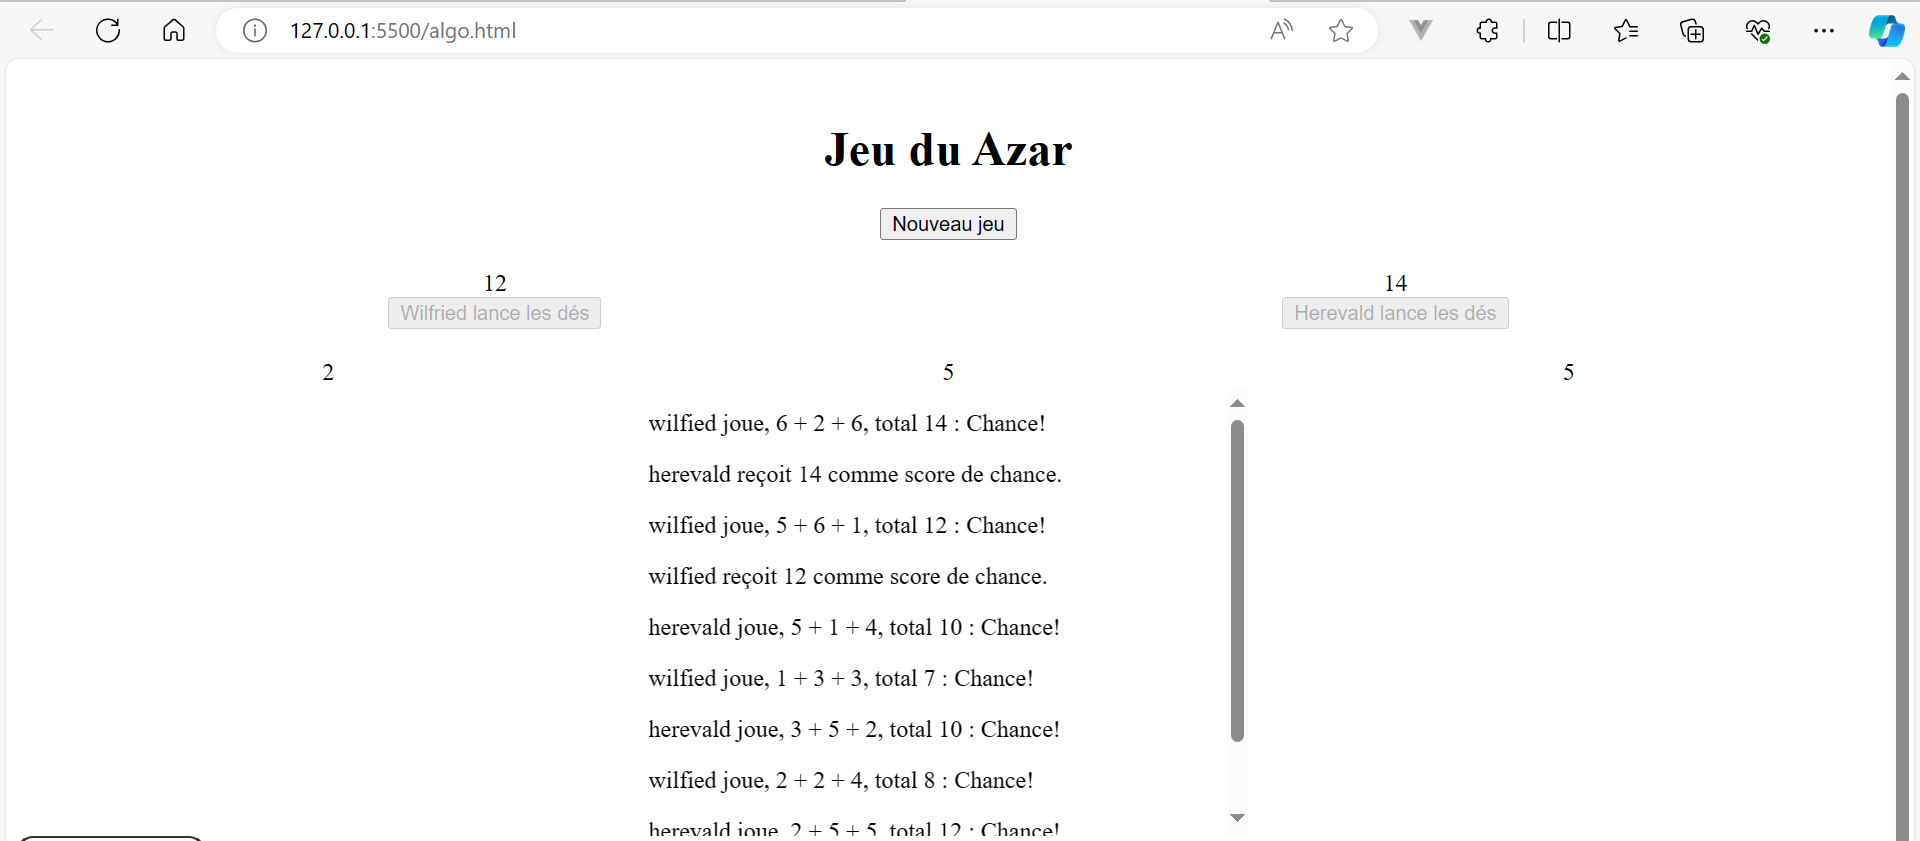
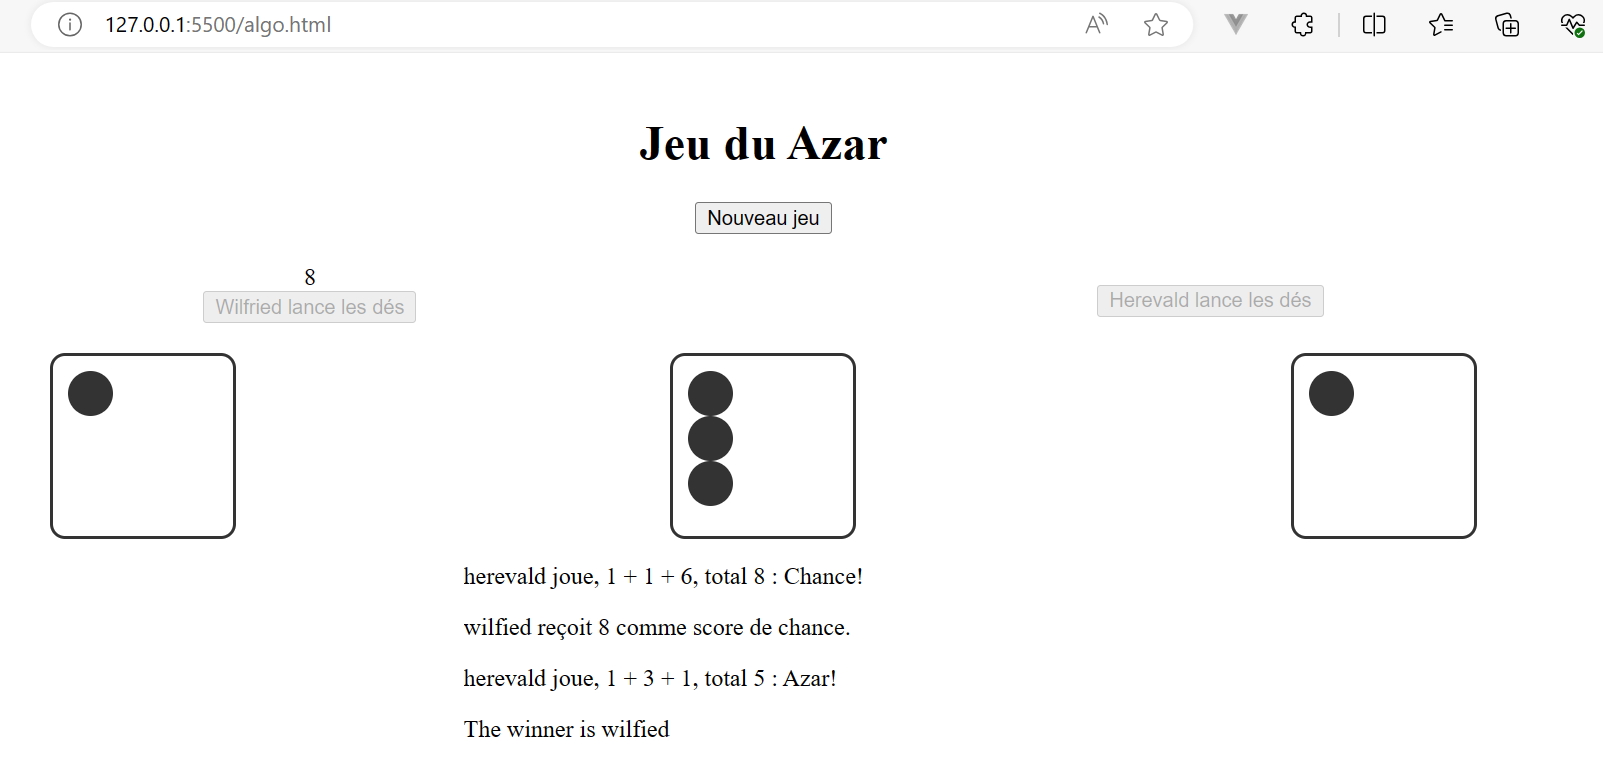
OOP

diff --git a/algo.js b/algo.js
@@ -1,15 +1,37 @@
 var isInitPhase = true;
+var beginnerIndex = 1;
 
 const new_game = document.getElementById("new_game");
 const wilfied = document.getElementById("wilfied");
 const herevald = document.getElementById("herevald");
+const playerButtons = [wilfied, herevald];
 
 const wilfiedSC = document.getElementById("wilfiedSC");
 const herevaldSC = document.getElementById("herevaldSC");
 
-var player1 =  {"name" : "wilfied", scoreChance : 0, playerSC : wilfiedSC};
-var player2 =  {"name" : "herevald", scoreChance : 0, playerSC : herevaldSC};
+function Player(name, score, sc) {
+  this.name = name;
+  this.scoreChance = score;
+  this.playerSC = sc;
+}
+
+Player.prototype.displayPlayerResult = function() {
+  let message = `${this.name} joue, ${launchDiceResult.message}`;
+  let is_azar = isAzar(launchDiceResult);
+  message += is_azar ? " : Azar!" : " : Chance!";
+  addMessageToElem(results, message);
+};
+
+var player1 = new Player("wilfied", 0, wilfiedSC);
+var player2 = new Player("herevald", 0, herevaldSC);
 var players = [player1, player2];
+var beginnerPlayer = players[beginnerIndex];
+var otherPlayer = players[(beginnerIndex+1)%2];
+
+var launchDiceResult = {
+  message : "",
+  sum : 0
+}
 
 const d1 = document.getElementById("d1");
 const d2 = document.getElementById("d2");
@@ -20,74 +42,69 @@ const results = document.getElementById("results");
 new_game.addEventListener("click", ()  => {
   isInitPhase = true;
   results.innerHTML = "";
-  wilfied.disabled = false;
-  herevald.disabled = true;
   
-  player1.scoreChance = 0;
-  player2.scoreChance = 0;
+  playerButtons.forEach(function(player, index) {
+    player.disabled = index != beginnerIndex;
+  });
   
-  setDiceResults("", "", "");
+  beginnerPlayer.scoreChance = 0;
+  otherPlayer.scoreChance = 0;
+  
+  setDiceResults();
   wilfiedSC.innerHTML = "";
   herevaldSC.innerHTML = "";
 });
 
-wilfied.addEventListener("click", ()  => {
-  const launchDiceResult = launchDice();
-  displayPlayerResult(player1, launchDiceResult);
-
-  var isBeginner = true;
-
-  if (isBeginner){
-    isInitPhase ? handleInitPhase(launchDiceResult) : checkWinner(launchDiceResult.sum);
-  } else {
-    checkWinner(launchDiceResult.sum);
-  }
+playerButtons.forEach(function(player, index) {
+  player.addEventListener("click", ()  => { 
+    play(index);
+  });
 });
 
-herevald.addEventListener("click", ()  => {
-  const launchDiceResult = launchDice();
-  displayPlayerResult(player2, launchDiceResult);
+function play(index){
+  launchDice();
+  players[index].displayPlayerResult();
 
-  var isBeginner = false;
-
-  if (isBeginner){
-    isInitPhase ? handleInitPhase(launchDiceResult) : checkWinner(launchDiceResult.sum);
+  if (beginnerIndex == index){
+    isInitPhase ? handleInitPhase() : checkWinner();
   } else {
-    checkWinner(launchDiceResult.sum);
-  }
-});
-
-function handleInitPhase(launchDiceResult) {
-  if (isAzar(launchDiceResult)) {
-    if (player2.scoreChance) displayWinner(player2);
-    else displayWinner(player1);
-    
-  } else {
-    if (player2.scoreChance) {
-      if(player2.scoreChance !== launchDiceResult.sum) {
-        player1.scoreChance = launchDiceResult.sum;
-        displaySC(player1);
-        isInitPhase = false;
-        wilfied.disabled = true;
-        herevald.disabled = false;
-      }
-      else {
-        player2.scoreChance = 0;
-      }
-    }
-    else {
-      player2.scoreChance = launchDiceResult.sum;
-      displaySC(player2);
-    }
+    checkWinner();
   }
 }
 
-function checkWinner(score){
-  if(player2.scoreChance === score) {
-    displayWinner(player2);
+function handleInitPhase() {
+  if (isAzar()) {
+    displayWinner(otherPlayer.scoreChance ? otherPlayer : beginnerPlayer);
+  } else {
+    handleChance();
   }
-  else if(player1.scoreChance === score) {
-    displayWinner(player1);
+}
+
+function handleChance(){
+  if (otherPlayer.scoreChance) {
+    if(otherPlayer.scoreChance !== launchDiceResult.sum) {
+      beginnerPlayer.scoreChance = launchDiceResult.sum;
+      displaySC(beginnerPlayer);
+      isInitPhase = false;
+      playerButtons[beginnerIndex] = true;
+      playerButtons[(beginnerIndex+1)%2] = false;
+    }
+    else {
+      otherPlayer.scoreChance = 0;
+    }
+  }
+  else {
+    otherPlayer.scoreChance = launchDiceResult.sum;
+    displaySC(otherPlayer);
+  }
+}
+
+function checkWinner(){
+  if(otherPlayer.scoreChance === launchDiceResult.sum) {
+    displayWinner(otherPlayer);
+  }
+  else if(beginnerPlayer.scoreChance === launchDiceResult.sum) {
+    displayWinner(beginnerPlayer);
   }
   else { 
     wilfied.disabled = !wilfied.disabled;
@@ -110,16 +127,15 @@ function launchDice() {
   
   setDiceResults(result1, result2, result3);
 
-  return {
+  launchDiceResult = {
     message : `${result1} + ${result2} + ${result3}, total ${total}`,
     sum : total
   };
 }
 
-function setDiceResults(dice1, dice2, dice3) {
-  setDiceResultsDice(dice1, 1);
-  setDiceResultsDice(dice2, 2);
-  setDiceResultsDice(dice3, 3);
+function setDiceResults() {
+  if (arguments.length == 0) resetDiceResultsDice();
+  for (let i=0; i<arguments.length; i++) setDiceResultsDice(arguments[i], i + 1);
 }
 
 function setDiceResultsDice(dice, diceIndex) {
@@ -127,71 +143,28 @@ function setDiceResultsDice(dice, diceIndex) {
     var query = `#d${diceIndex} .dice${i}`;
     (document.querySelector(query)).style.display = i == dice ? 'block' : 'none';
   }
-
-  // if (dice1 == 1) {
-  //   for (var i=1; i<=6; i++) {
-  //    (document.querySelector(`#d1 .dice${i}`)).style.display = i == dice1 ? 'block' : 'none';
-  //   }
-  //   (document.querySelector('#d1 .dice1')).style.display = 'block';
-  //   (document.querySelector('#d1 .dice2')).style.display = 'none';
-  //   (document.querySelector('#d1 .dice3')).style.display = 'none';
-  //   (document.querySelector('#d1 .dice4')).style.display = 'none';
-  //   (document.querySelector('#d1 .dice5')).style.display = 'none';
-  //   (document.querySelector('#d1 .dice6')).style.display = 'none';
-  // } else if (dice1 == 2) {
-  //   (document.querySelector('#d1 .dice1')).style.display = 'none';
-  //   (document.querySelector('#d1 .dice2')).style.display = 'block';
-  //   (document.querySelector('#d1 .dice3')).style.display = 'none';
-  //   (document.querySelector('#d1 .dice4')).style.display = 'none';
-  //   (document.querySelector('#d1 .dice5')).style.display = 'none';
-  //   (document.querySelector('#d1 .dice6')).style.display = 'none';
-  // } else if (dice1 == 3) {
-  //   (document.querySelector('#d1 .dice1')).style.display = 'none';
-  //   (document.querySelector('#d1 .dice2')).style.display = 'none';
-  //   (document.querySelector('#d1 .dice3')).style.display = 'block';
-  //   (document.querySelector('#d1 .dice4')).style.display = 'none';
-  //   (document.querySelector('#d1 .dice5')).style.display = 'none';
-  //   (document.querySelector('#d1 .dice6')).style.display = 'none';
-  // } else if (dice1 == 4) {
-  //   (document.querySelector('#d1 .dice1')).style.display = 'none';
-  //   (document.querySelector('#d1 .dice2')).style.display = 'none';
-  //   (document.querySelector('#d1 .dice3')).style.display = 'none';
-  //   (document.querySelector('#d1 .dice4')).style.display = 'block';
-  //   (document.querySelector('#d1 .dice5')).style.display = 'none';
-  //   (document.querySelector('#d1 .dice6')).style.display = 'none';
-  // } else if (dice1 == 5) {
-  //   (document.querySelector('#d1 .dice1')).style.display = 'none';
-  //   (document.querySelector('#d1 .dice2')).style.display = 'none';
-  //   (document.querySelector('#d1 .dice3')).style.display = 'none';
-  //   (document.querySelector('#d1 .dice4')).style.display = 'none';
-  //   (document.querySelector('#d1 .dice5')).style.display = 'block';
-  //   (document.querySelector('#d1 .dice6')).style.display = 'none';
-  // } else if (dice1 == 6) {
-  //   (document.querySelector('#d1 .dice1')).style.display = 'none';
-  //   (document.querySelector('#d1 .dice2')).style.display = 'none';
-  //   (document.querySelector('#d1 .dice3')).style.display = 'none';
-  //   (document.querySelector('#d1 .dice4')).style.display = 'none';
-  //   (document.querySelector('#d1 .dice5')).style.display = 'none';
-  //   (document.querySelector('#d1 .dice6')).style.display = 'block';
-  // }
 }
 
-function isAzar(launchDiceResult) {
+function resetDiceResultsDice(diceIndex) {
+  for (var i=1; i<=6; i++) {
+    var query = `#d1 .dice${i}`;
+    (document.querySelector(query)).style.display = 'none';
+    query = `#d2 .dice${i}`;
+    (document.querySelector(query)).style.display = 'none';
+    query = `#d3 .dice${i}`;
+    (document.querySelector(query)).style.display = 'none';
+  }
+}
+
+function isAzar() {
   var sum = launchDiceResult.sum;
-  return (sum >= 3 && sum <= 6) || (sum >= 15 && sum <= 18);
+  return sum <= 6 || sum >= 15;
 }
 
 function displaySC(player){
   const message = `${player.name} reçoit ${player.scoreChance} comme score de chance.`;
   addMessageToElem(results, message);
   player.playerSC.innerHTML = player.scoreChance;
-}
-
-function displayPlayerResult(player, SC){
-  let message = `${player.name} joue, ${SC.message}`;
-  let is_azar = isAzar(SC);
-  message += is_azar ? " : Azar!" : " : Chance!";
-  addMessageToElem(results, message);
 }
 
 function addMessageToElem(elem, message) {
